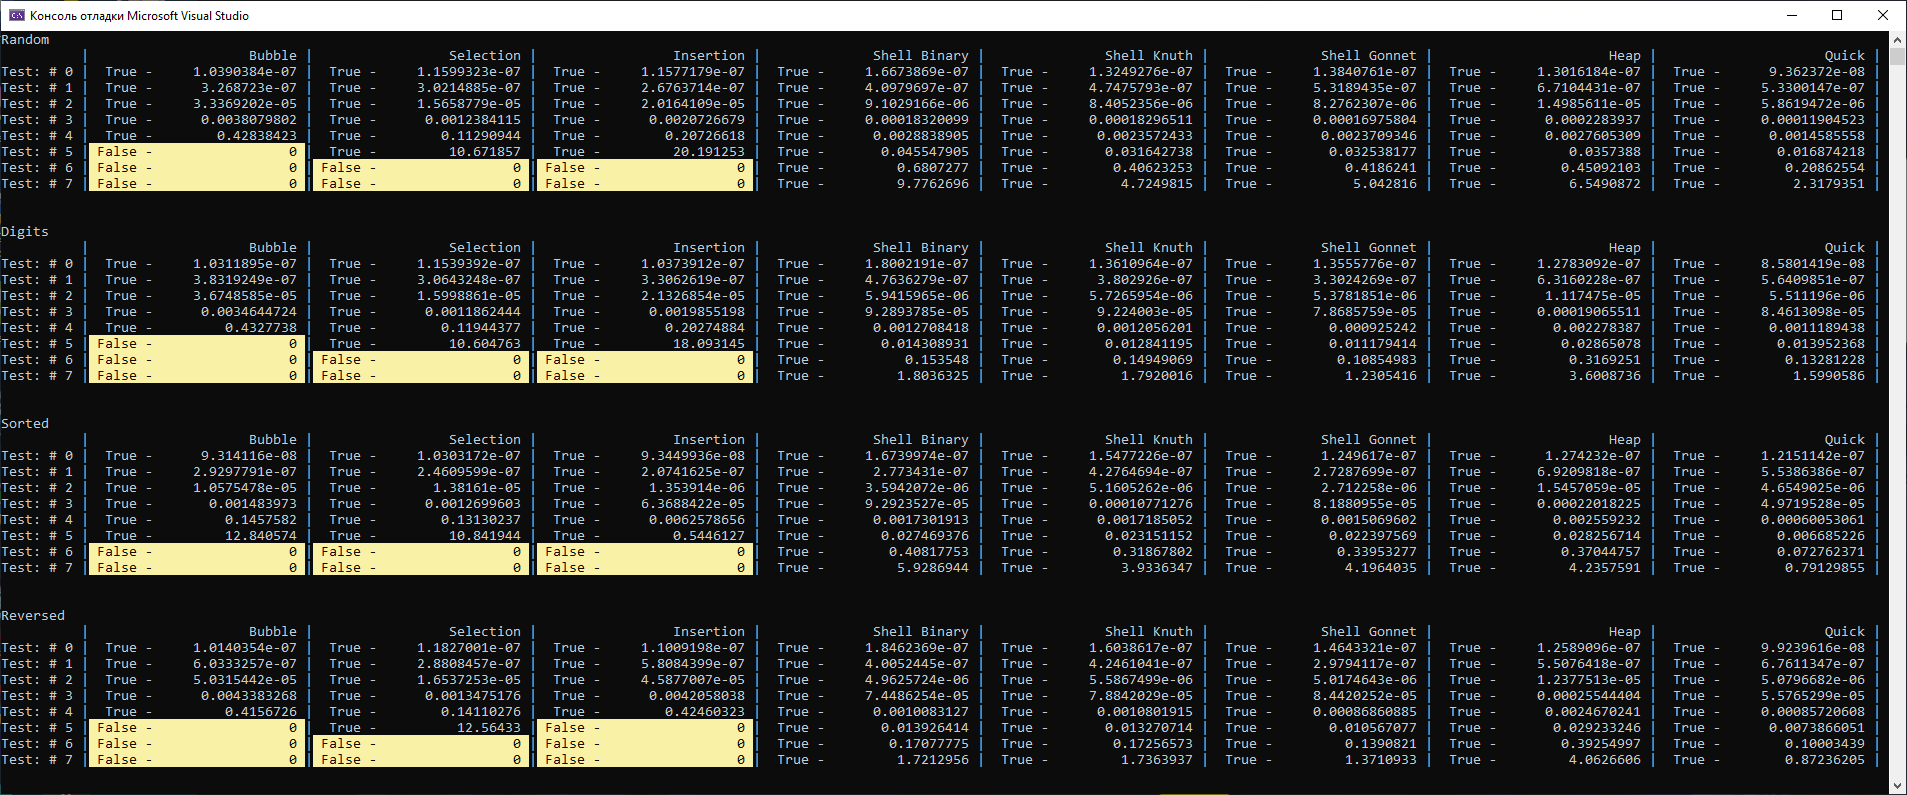
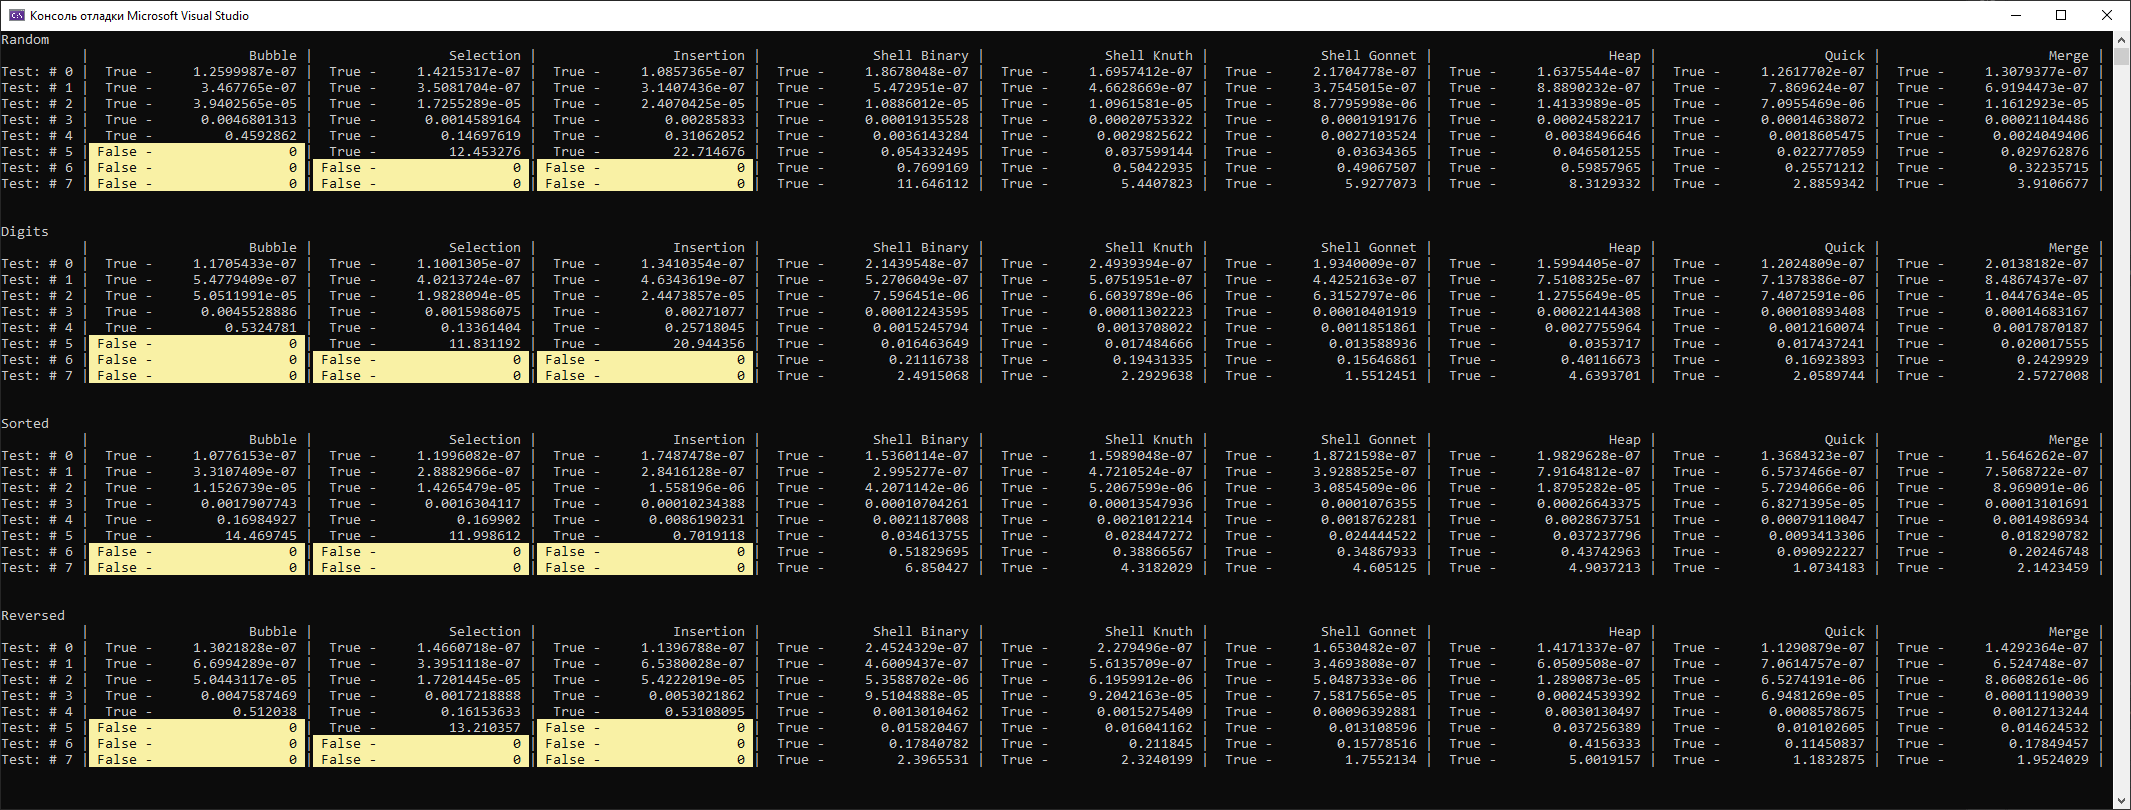
add merge sort

diff --git a/lesson.06.cs/SortTask/MergeTask.cs b/lesson.06.cs/SortTask/MergeTask.cs
@@ -1,0 +1,58 @@
+using System;
+using System.Threading;
+
+namespace lesson._06.cs
+{
+    class MergeTask : SortTask
+    {
+        public override string Name() { return "Merge"; }
+
+        public override void Run(CancellationToken token)
+        {
+            MergeSort(sortArray, token);
+        }
+
+        static void Merge(int[] tmpArray, int[] array, int start, int mid, int end, CancellationToken token)
+        {
+            int mergeIdnex = start;
+            int left = start;
+            int right = mid;
+
+            Array.Copy(array, start, tmpArray, start, end - start);
+
+            do
+            {
+                if (left < mid && (right == end || tmpArray[left] < tmpArray[right]))
+                {
+                    array[mergeIdnex] = tmpArray[left];
+                    ++left;
+                }
+                else
+                {
+                    array[mergeIdnex] = tmpArray[right];
+                    ++right;
+                }
+                ++mergeIdnex;
+            } while (mergeIdnex < end);
+
+        }
+
+        static void Sort(int[] tmpArray, int[] array, int start, int end, CancellationToken token)
+        {
+            if (start + 1 == end)
+                return;
+
+            int mid = (start + end) >> 1;
+            Sort(tmpArray, array, start, mid, token);
+            Sort(tmpArray, array, mid, end, token);
+            Merge(tmpArray, array, start, mid, end, token);
+        }
+
+        static void MergeSort(int[] array, CancellationToken token)
+        {
+            int[] tmpArray = new int[array.Length];
+
+            Sort(tmpArray, array, 0, array.Length, token);
+        }
+    }
+}

diff --git a/lesson.06.cs/Program.cs b/lesson.06.cs/Program.cs
@@ -15,6 +15,7 @@ namespace lesson._06.cs
             tester.Add(new ShellTask(new GonnetSequence()));
             tester.Add(new HeapTask());
             tester.Add(new QuickTask());
+            tester.Add(new MergeTask());
             tester.RunTests();
             Console.WriteLine("");
         }
